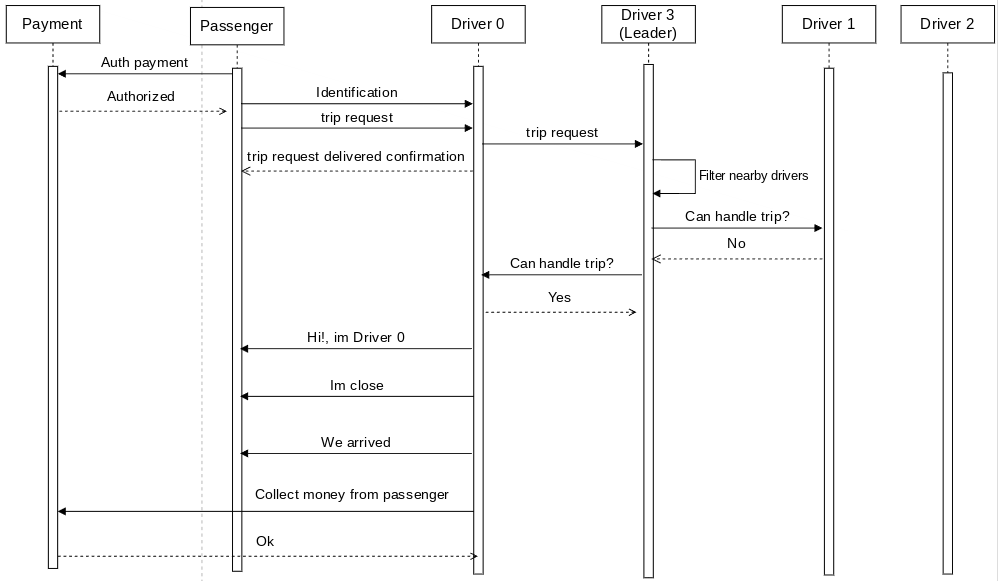
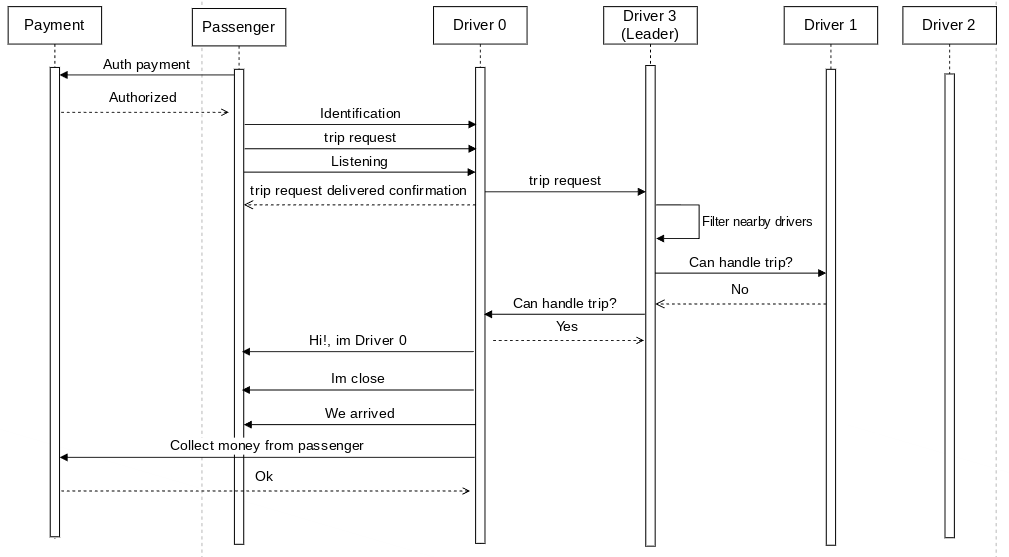
refactor: wait to listening notification

Changed region(s): [[0.0, 0.0, 1.0, 1.0], [0.9319, 0.1221, 0.9629, 1.0]]

diff --git a/passenger/src/concu_passenger/passenger.rs b/passenger/src/concu_passenger/passenger.rs
@@ -2,9 +2,7 @@ use rand::Rng;
 use std::{error::Error, time::Duration};
 use tokio::{
     io::{AsyncBufReadExt, AsyncWriteExt, BufReader},
-    join,
     net::TcpStream,
-    task,
 };
 
 use common::utils::json_parser::{CommonMessages, TripMessages};
@@ -112,16 +110,12 @@ async fn send_auth_message(id: &u32, socket: &mut TcpStream) -> Result<(), Box<d
     Ok(())
 }
 
-/// Crea un listener en un puerto específico y espera la conexión de un conductor por un período de tiempo.
-/// Si la conexión es exitosa, se espera la respuesta del conductor
-/// - Si la respuesta es afirmativa, el viaje fue completado y sale del loop
-/// - Si la respuesta es negativa, el viaje fue rechazado
-/// - Si no hay respuesta, se retorna un error
-///
-/// Si la conexión falla, se retorna un error.
-
-async fn listen_connections(id: u32) -> Result<Result<(), String>, String> {
+/// Crea un listener en un puerto específico
+/// socket: Socket TCP mediante el que se conecto al driver
+/// id: ID del pasajero
+async fn bind_listener(socket: &mut TcpStream, id: u32) -> Result<TcpListener, String> {
     let self_addr = format!("{}:{}", HOST, MIN_PASSENGER_PORT + id);
+
     let listener = TcpListener::bind(&self_addr).await.map_err(|e| {
         log::error!("{}:{}, {}", std::file!(), std::line!(), e.to_string());
         e.to_string()
@@ -129,6 +123,20 @@ async fn listen_connections(id: u32) -> Result<Result<(), String>, String> {
 
     log::info!("My addr is {}", self_addr);
 
+    let _ = send_listening_notification(socket).await;
+
+    Ok(listener)
+}
+
+/// Espera la conexión de un conductor por un período de tiempo.
+/// Si la conexión es exitosa, se espera la respuesta del conductor
+/// - Si la respuesta es afirmativa, el viaje fue completado y sale del loop
+/// - Si la respuesta es negativa, el viaje fue rechazado
+/// - Si no hay respuesta, se retorna un error
+///
+/// Si la conexión falla, se retorna un error.
+
+async fn listen_connections(listener: &mut TcpListener) -> Result<Result<(), String>, String> {
     loop {
         let result = timeout(Duration::from_secs(10), listener.accept()).await;
 
@@ -162,19 +170,21 @@ async fn listen_connections(id: u32) -> Result<Result<(), String>, String> {
 /// Realiza una solicitud de viaje al servidor de conductores
 /// - Envia un mensaje de identificación
 /// - Envia un mensaje de solicitud de viaje
+/// - Crea un listener y envia un mensaje 'Listening'
 /// - Espera las respuestas de los conductores
-async fn make_request(trip_data: &TripData, socket: &mut TcpStream) -> Result<(), Box<dyn Error>> {
+async fn make_request(
+    trip_data: &TripData,
+    socket: &mut TcpStream,
+) -> Result<TcpListener, Box<dyn Error>> {
     send_identification(&trip_data, socket).await?;
-
-    log::info!("Identification sent!");
 
     send_trip_request(socket, &trip_data).await?;
 
-    log::info!("Request sent!");
+    let listener = bind_listener(socket, trip_data.id).await?;
 
     wait_driver_responses(socket).await??;
 
-    Ok(())
+    Ok(listener)
 }
 
 /// Itera por cada uno de los puertos de los conductores, intentando conectarse a cada uno de ellos
@@ -200,36 +210,31 @@ async fn request(trip_data: TripData) -> Result<(), Box<dyn Error>> {
             Ok(socket) => socket,
         };
 
-        let listen_task = task::spawn(listen_connections(trip_data.id.clone()));
-
-        if let Err(e) = make_request(&trip_data, &mut socket).await {
-            log::error!("{}:{}, {}", std::file!(), std::line!(), e.to_string());
-            listen_task.abort();
-            continue;
-        }
-
-        let (listen_task_result,) = join!(listen_task);
-
-        match listen_task_result {
-            Ok(Err(e)) => {
-                log::error!("{}", e.to_string());
-                ports = (MIN_DRIVER_PORT..=MAX_DRIVER_PORT).collect();
-                continue;
-            } // Broken pipe
-            Ok(Ok(Ok(_))) => {
-                // Ok
-                ret = Ok(());
-                break;
-            }
-            Ok(Ok(Err(e))) => {
-                // Negative response from driver
-                log::error!("{}", e.to_string());
-                break;
-            }
+        match make_request(&trip_data, &mut socket).await {
             Err(e) => {
-                log::error!("{}", e.to_string());
-                ports = (MIN_DRIVER_PORT..=MAX_DRIVER_PORT).collect();
+                log::error!("{}:{}, {}", std::file!(), std::line!(), e.to_string());
                 continue;
+            }
+            Ok(mut listener) => {
+                let listen_result = async move { listen_connections(&mut listener).await }.await;
+
+                match listen_result {
+                    Err(e) => {
+                        log::error!("{}", e.to_string());
+                        ports = (MIN_DRIVER_PORT..=MAX_DRIVER_PORT).collect();
+                        continue;
+                    } // Broken pipe
+                    Ok(Ok(_)) => {
+                        // Ok
+                        ret = Ok(());
+                        break;
+                    }
+                    Ok(Err(e)) => {
+                        // Negative response from driver
+                        log::error!("{}", e.to_string());
+                        break;
+                    }
+                }
             }
         }
     }
@@ -237,7 +242,6 @@ async fn request(trip_data: TripData) -> Result<(), Box<dyn Error>> {
     ret
 }
 
-// TODO
 /// Espera las respuestas de los conductores dentro de un loop
 /// - Si la respuesta es afirmativa puede ser:
 ///    - Que el viaje fue aceptado  o completado  se sale del loop
@@ -312,7 +316,7 @@ fn parse_trip_response(response: String) -> Result<TripMessages, String> {
     Ok(response)
 }
 
-/// Espera una respuesta y la retorna 
+/// Espera una respuesta y la retorna
 /// - Si la respuesta es vacía, retorna un error
 /// - Si la respuesta es un mensaje de error, retorna un error
 /// - Si la respuesta es un mensaje de éxito, retorna la respuesta
@@ -347,6 +351,23 @@ async fn send_trip_request(
         .write_all((request + "\n").as_bytes())
         .await
         .inspect_err(|e| log::error!("{}:{}, {}", std::file!(), std::line!(), e.to_string()))?;
+
+    log::info!("Request sent!");
+
+    Ok(())
+}
+
+/// Notifica al conductor que ya esta escuchando nuevas conexiones
+async fn send_listening_notification(socket: &mut TcpStream) -> Result<(), Box<dyn Error>> {
+    let request = serde_json::to_string(&TripMessages::Listening {})?;
+
+    socket
+        .write_all((request + "\n").as_bytes())
+        .await
+        .inspect_err(|e| log::error!("{}:{}, {}", std::file!(), std::line!(), e.to_string()))?;
+
+    log::info!("Listening notification sent!");
+
     Ok(())
 }
 
@@ -361,6 +382,8 @@ async fn send_identification(
     })?;
 
     socket.write_all((identification + "\n").as_bytes()).await?;
+
+    log::info!("Identification sent!");
+
     Ok(())
 }
-

diff --git a/driver/src/concu_driver/connections_handler.rs b/driver/src/concu_driver/connections_handler.rs
@@ -1,3 +1,5 @@
+use std::time::Duration;
+
 use actix::{Actor, Addr, AsyncContext};
 use common::utils::{
     consts::{HOST, MAX_DRIVER_PORT, MIN_DRIVER_PORT},
@@ -7,6 +9,7 @@ use tokio::{
     io::{split, AsyncBufReadExt, AsyncWriteExt, BufReader, ReadHalf, WriteHalf},
     net::{TcpListener, TcpStream},
     task::JoinHandle,
+    time::timeout,
 };
 use tokio_stream::wrappers::LinesStream;
 
@@ -20,7 +23,6 @@ use super::{
 pub struct DriverConnectionsHandler;
 
 impl DriverConnectionsHandler {
-    
     /// Corre el setUp del driver a la hora de crearse
     pub fn run(
         id: u32,
@@ -29,9 +31,8 @@ impl DriverConnectionsHandler {
         actix::spawn(async move { Self::setup(&central_driver_addr, id).await })
     }
 
-    
     /// Conecta a todos los drivers
-    /// 
+    ///
     /// Mientras el driver_id sea menor o igual al maximo de drivers, se conecta a cada uno
     async fn connect_all_drivers(
         self_id: u32,
@@ -75,8 +76,8 @@ impl DriverConnectionsHandler {
     /// - Se conecta con todos los drivers
     /// - Comienza una nueva elección
     /// - Se pone a escuchar por nuevas conexiones
-    /// 
-    /// Puede tener dos posibles conexiones: 
+    ///
+    /// Puede tener dos posibles conexiones:
     ///  - Con un driver: Se crea un nuevo actor DriverConnection y se le pasa un stream de lineas para que escuche los mensajes
     /// - Con un pasajero: Se lee del stream para ver si recibio algun mensaje y lo handlea como debe
     async fn setup(central_driver_addr: &Addr<CentralDriver>, id: u32) -> Result<(), String> {
@@ -143,7 +144,8 @@ impl DriverConnectionsHandler {
                     }
                     'P' => {
                         let _ =
-                            Self::handle_passenger_connection(central_driver_addr, w, id, reader).await;
+                            Self::handle_passenger_connection(central_driver_addr, w, id, reader)
+                                .await;
                     }
                     _ => (),
                 },
@@ -173,15 +175,14 @@ impl DriverConnectionsHandler {
                 e.to_string()
             })
     }
-    
-    
+
     /// Conecta con un pasajero
-    /// Lee del strem para ver si recibio algun mensaje. 
-    /// - En el caso de recirlo lo parsea y le envia el mensaje RedirectTrip al central_driver
-    /// - En el caso de no recibirlo, devuelve un error
-    /// 
-    /// Luego se envia un mensaje de confirmacion al pasajero de que su viaje esta siendo procesado 
-    /// 
+    /// Lee del strem para ver si recibio algun mensaje.
+    /// - En el caso de recirlo lo parsea y espera otro mensaje 'Listening', luego le envia el mensaje RedirectTrip al central_driver
+    /// - En el caso de no recibir ambos, devuelve un error
+    ///
+    /// Luego se envia un mensaje de confirmacion al pasajero de que su viaje esta siendo procesado
+    ///
     async fn handle_passenger_connection(
         central_driver_addr: &Addr<CentralDriver>,
         mut w: WriteHalf<TcpStream>,
@@ -212,11 +213,50 @@ impl DriverConnectionsHandler {
             e.to_string()
         })?;
 
-        match response {
+        let trip_data = match response {
             TripMessages::TripRequest {
                 source,
                 destination,
-            } => central_driver_addr
+            } => (source, destination),
+            _ => {
+                log::error!("{}:{}, TripRequest expected", std::file!(), std::line!());
+                return Err("TripRequest expected".into());
+            }
+        };
+
+        let (source, destination) = trip_data;
+
+        let mut listen_message = String::new();
+
+        let reader_ret = timeout(
+            Duration::from_millis(500),
+            reader.read_line(&mut listen_message),
+        )
+        .await
+        .map_err(|e| {
+            log::error!("{}:{}, {}", std::file!(), std::line!(), e.to_string());
+            e.to_string()
+        })?;
+
+        if reader_ret.is_err() || listen_message.is_empty() {
+            log::error!("Error receiving listening notification");
+            return Err("Error receiving listening notification".into());
+        }
+
+        let listen_response: TripMessages = serde_json::from_str(&listen_message).map_err(|e| {
+            log::error!(
+                "{}:{}, {}, str: {}, len: {}",
+                std::file!(),
+                std::line!(),
+                e.to_string(),
+                listen_message,
+                listen_message.len()
+            );
+            e.to_string()
+        })?;
+
+        match listen_response {
+            TripMessages::Listening {} => central_driver_addr
                 .try_send(RedirectNewTrip {
                     passenger_id,
                     source,
@@ -227,10 +267,14 @@ impl DriverConnectionsHandler {
                     e.to_string()
                 })?,
             _ => {
-                log::error!("{}:{}, TripRequest expected", std::file!(), std::line!());
-                return Err("TripRequest expected".into());
+                log::error!(
+                    "{}:{}, Listening notification expected",
+                    std::file!(),
+                    std::line!()
+                );
+                return Err("Listening notification expected".into());
             }
-        }
+        };
 
         let parsed_data = serde_json::to_string(&TripMessages::TripResponse {
             status: common::utils::json_parser::TripStatus::RequestDelivered,

diff --git a/driver/src/concu_driver/passenger_connection.rs b/driver/src/concu_driver/passenger_connection.rs
@@ -166,7 +166,7 @@ impl Handler<RecvAll> for PassengerConnection {
     /// Maneja los mensajes recibidos desde el pasajero.
     /// Parsea el mensaje recibido y envía un mensaje:
     /// Si el mensaje es de tipo `TripRequest` envía un mensaje al `CentralDriver` con la respuesta.
-    /// Si el mensaje es de tipo `TripResponse` loggea un error.
+    /// Si el mensaje no es de tipo `TripRequest` loggea un error.
     fn handle(&mut self, msg: RecvAll, _ctx: &mut Context<Self>) -> Self::Result {
         let data = serde_json::from_str(&msg.data).map_err(|e| {
             log::error!("{}:{}, {}", std::file!(), std::line!(), e.to_string());
@@ -189,10 +189,7 @@ impl Handler<RecvAll> for PassengerConnection {
                     e.to_string()
                 })?,
 
-            TripMessages::TripResponse {
-                status: _,
-                detail: _,
-            } => log::error!("Why i'm receiving a trip response?"),
+            _ => log::error!("Why i'm receiving a this type of message {:?}", data),
         }
 
         Ok(())

diff --git a/common/src/utils/json_parser.rs b/common/src/utils/json_parser.rs
@@ -2,7 +2,7 @@ use serde::{Deserialize, Serialize};
 
 use super::position::Position;
 
-#[derive(Serialize, Deserialize, Clone, Copy)]
+#[derive(Serialize, Deserialize, Clone, Copy, Debug)]
 pub enum TripStatus {
     RequestDelivered,
     Info,
@@ -15,7 +15,7 @@ pub enum CommonMessages {
     Identification { id: u32, type_: char },
 }
 
-#[derive(Serialize, Deserialize)]
+#[derive(Serialize, Deserialize, Debug)]
 pub enum TripMessages {
     TripRequest {
         source: Position,
@@ -25,6 +25,7 @@ pub enum TripMessages {
         status: TripStatus,
         detail: String,
     },
+    Listening {},
 }
 
 #[derive(Deserialize, Serialize)]

diff --git a/README.md b/README.md
@@ -501,7 +501,7 @@ Dados
 -   Passenger que quiere ir desde (3,3) -> (10, 10)
 
 El pasajero principalmente autoriza el pago con el servicio de Payment, al ser autorizado prosigue.
-Luego se conecta aleatoriamente con el driver 0, y le envia 'CommonMessages::Identification {id, type\_: 'P'}' y 'TripMessages::TripRequest {source: (3,3), destination: (10, 10)}'.
+Luego se conecta aleatoriamente con el driver 0, y le envia 'CommonMessages::Identification {id, type\_: 'P'}' y 'TripMessages::TripRequest {source: (3,3), destination: (10, 10)}' y 'Listening'.
 El driver 0 redirige la request al driver 3 (lider) y le responde al pasajero que su request fue entregada cerrando asi la conexion.
 El driver 3 lanza una tarea async la cual clona las posiciones de los drivers en ese instante, filtra los drivers mas cercanos, los ordena en orden de distancia ascendente y se queda con los ids ordenados. Luego va preguntando uno por uno si quieren tomar el viaje. En este caso, el mas cercano es el driver 1, el cual rechaza la solicitud, siguiendo por el driver 0 el cual acepta la solicitud, el driver 3 y el driver 2 estaban a una distancia mayor a MAX_DISTANCE.
 Entonces, el driver 0 se conecta con el pasajero avisandole que sera su chofer, le avisa cuando esta cerca y cuando se llega a destino.
